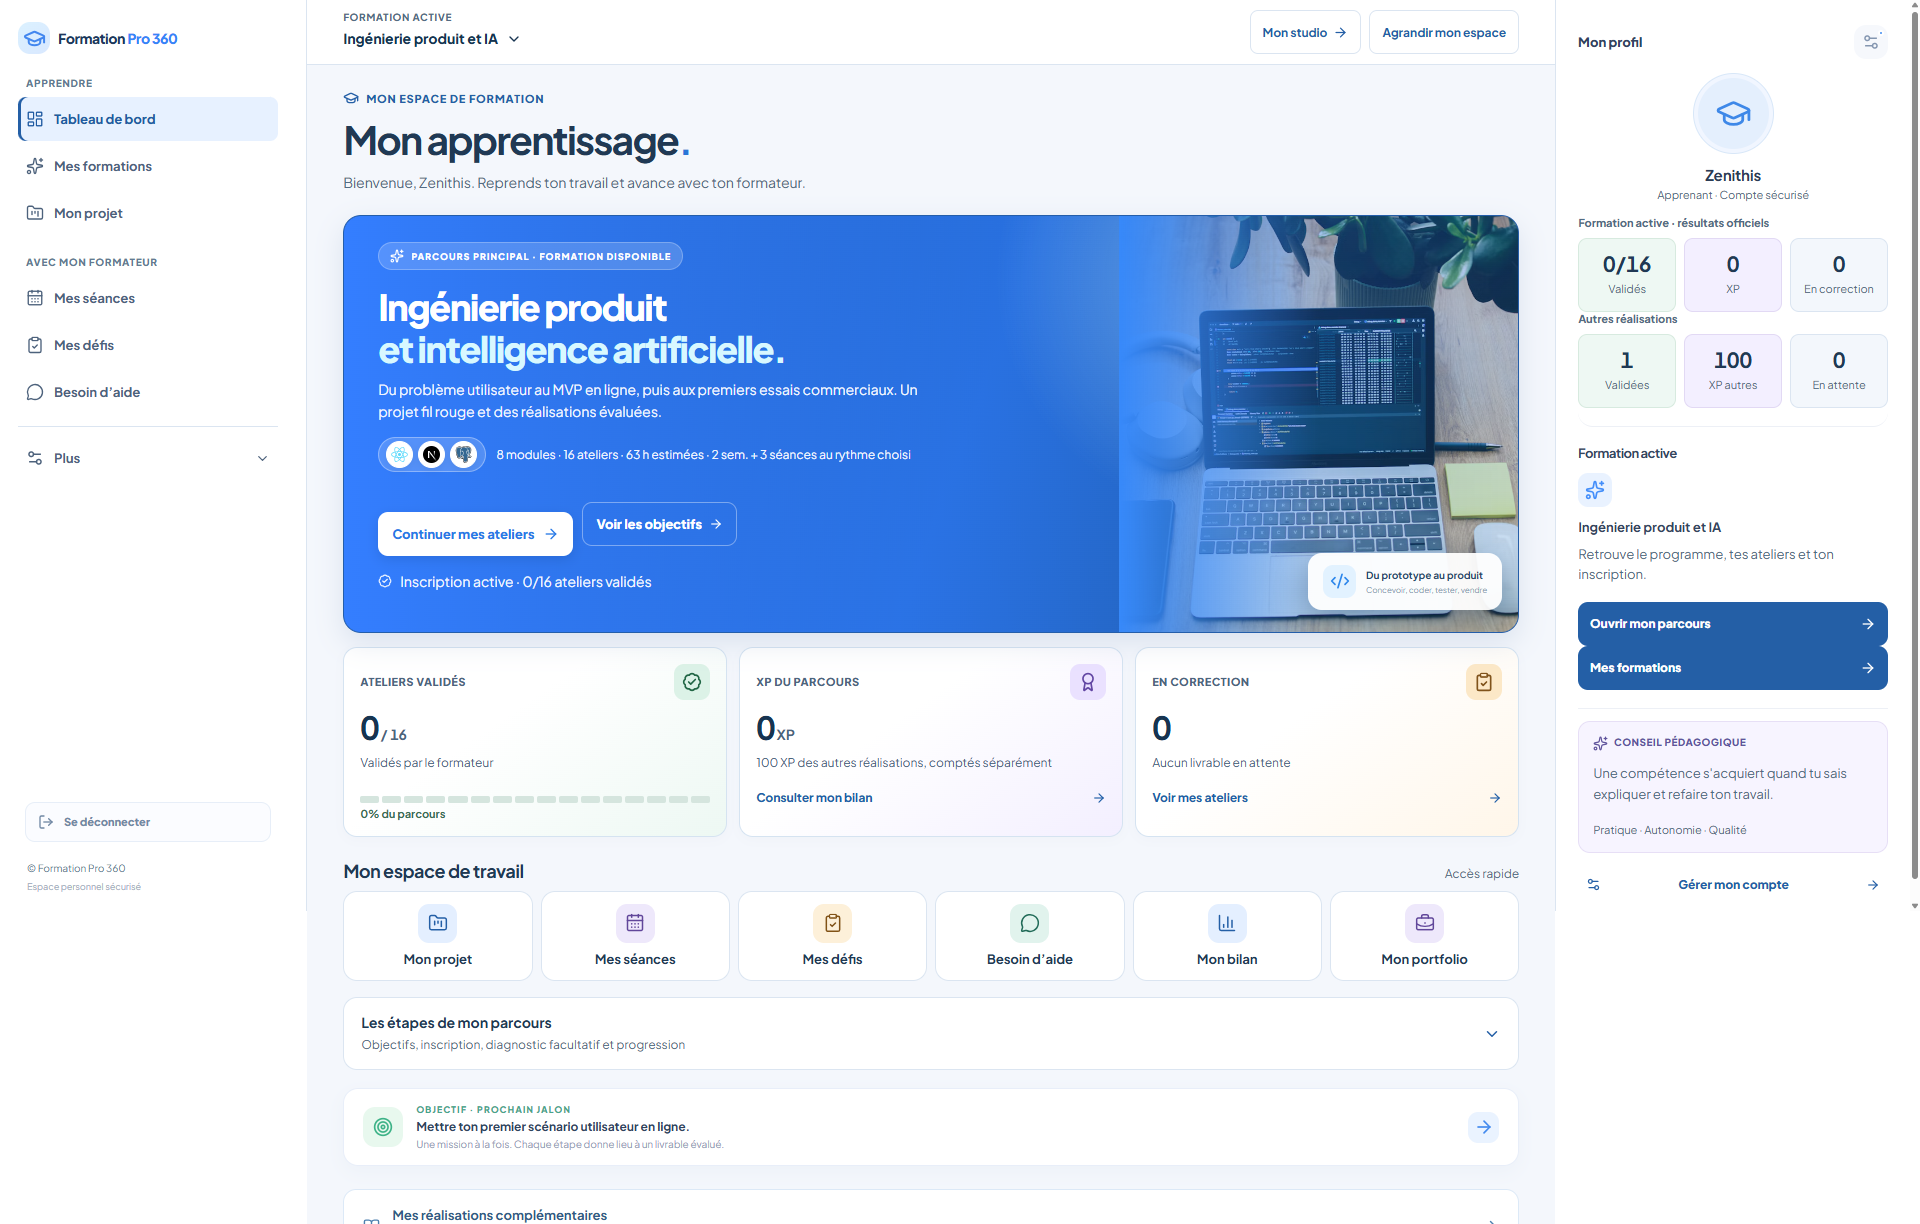
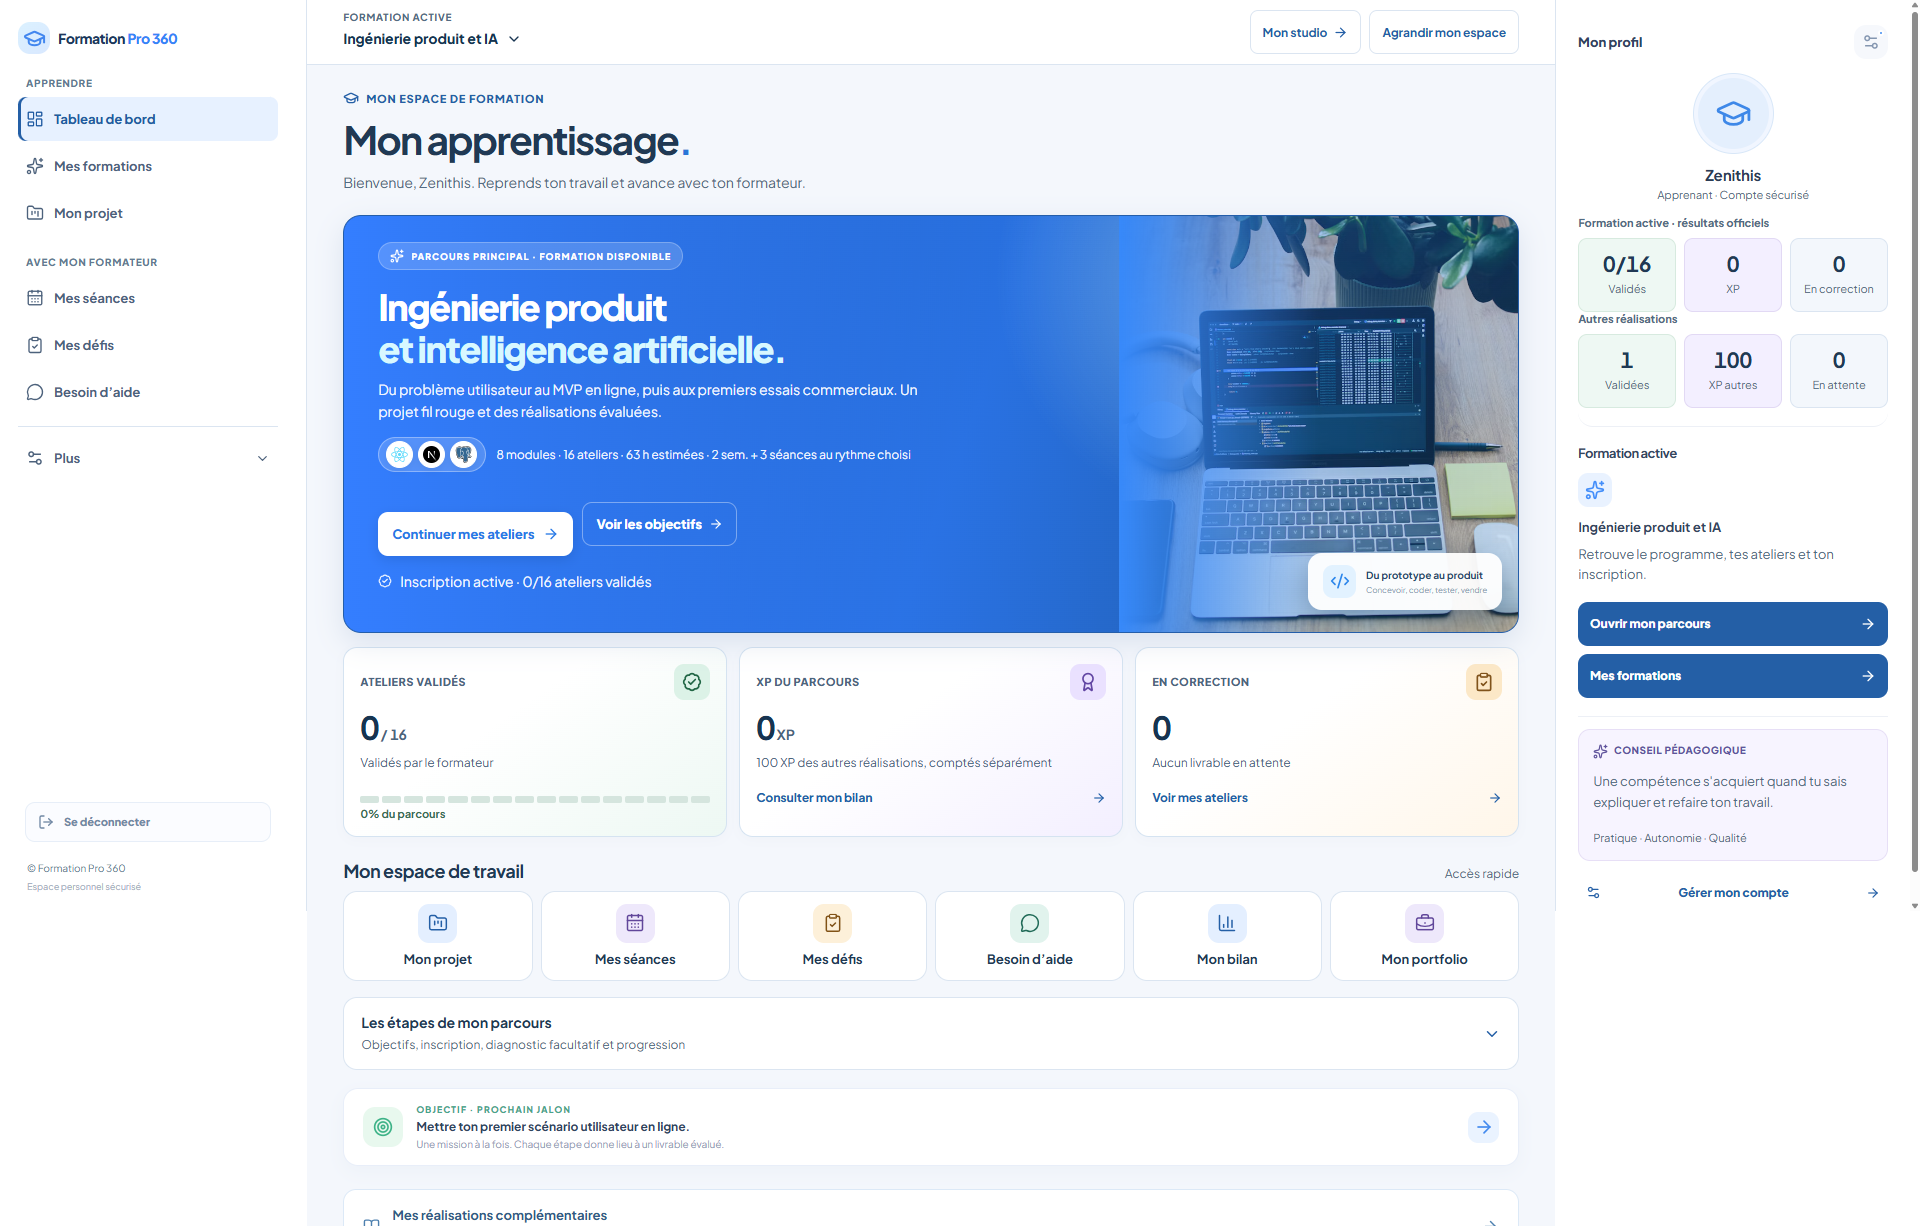
feat(landing): show training formats and updated preview

diff --git a/src/app/page.tsx b/src/app/page.tsx
@@ -140,7 +140,7 @@ function LandingPreview() {
         src="/images/landing-dashboard.png"
         alt="Tableau de bord apprenant Formation Pro 360, avec le parcours en cours et sa progression"
         width={1920}
-        height={1224}
+        height={1226}
         priority
       />
     </div>
@@ -183,7 +183,7 @@ export default async function HomePage() {
                   <a className="landing-button landing-button-primary" href="#formations">Explorer les formations <ArrowRight size={17} /></a>
                   <a className="landing-button landing-button-secondary" href="/login">J’ai déjà un compte</a>
                 </div>
-                <p className="landing-hero-note"><ShieldCheck size={15} /> Consulte les programmes librement. Les inscriptions ouvertes sont confirmées dans ton espace.</p>
+                <p className="landing-hero-note"><ShieldCheck size={15} /> Formations en présentiel à Douala (Makepe BM de préférence) ou à distance. Consulte les programmes librement.</p>
                 <div className="landing-hero-trust">
                   <span className="landing-trust-avatars" aria-hidden="true"><i><Target size={13} /></i><i><BookOpen size={13} /></i><i><BadgeCheck size={13} /></i></span>
                   <span><strong>Du concret à chaque étape</strong><small>Ateliers · réalisations · retours humains</small></span>
@@ -301,6 +301,7 @@ export default async function HomePage() {
               <Reveal className="landing-faq-intro"><h2 id="faq-title">Quelques réponses<br /><span>pour bien commencer.</span></h2><p>Découvre comment se déroule le parcours avant de créer ton espace.</p></Reveal>
               <div className="landing-faq-list">
                 <details className="landing-faq-item"><summary>Est-ce que je peux consulter les formations avant de m’inscrire ? <ChevronDown size={18} /></summary><p>Oui. Tu peux explorer les domaines et les projets présentés. Les possibilités d’inscription sont confirmées dans ton espace personnel.</p></details>
+                <details className="landing-faq-item"><summary>Où se déroulent les formations ? <ChevronDown size={18} /></summary><p>Les formations sont proposées en présentiel à Douala, de préférence à Makepe BM, ou à distance.</p></details>
                 <details className="landing-faq-item"><summary>Est-ce que le parcours impose un rythme fixe ? <ChevronDown size={18} /></summary><p>Tu peux définir tes disponibilités et avancer selon ton rythme. Les durées affichées sont des estimations, pas une échéance imposée.</p></details>
                 <details className="landing-faq-item"><summary>Comment mes réalisations sont-elles évaluées ? <ChevronDown size={18} /></summary><p>Tu déposes le travail demandé dans l’atelier. Ton formateur peut ensuite te transmettre une correction et des indications pour poursuivre.</p></details>
                 <details className="landing-faq-item"><summary>Quelle place est donnée à l’intelligence artificielle ? <ChevronDown size={18} /></summary><p>L’IA fait partie de plusieurs domaines de formation. Les ressources pédagogiques t’aident à l’utiliser pour produire, tester et vérifier ton travail avec discernement.</p></details>

diff --git a/src/app/landing.css b/src/app/landing.css
@@ -129,7 +129,7 @@
 
 .landing-hero-art { width: min(100%, 1200px); justify-self: center; }
 .landing-visual-wrap { position: relative; min-height: 0; perspective: 1500px; transform-style: preserve-3d; isolation: isolate; }
-.landing-dashboard-image { position: relative; z-index: 3; display: block; width: min(100%, 1187px); height: auto; margin: 18px auto 0; transform: translateY(0) rotateX(6deg) rotateY(-.6deg); transform-origin: center 38%; border: 1px solid #cad9ec; border-radius: 17px; box-shadow: 0 42px 82px #294d8033, 0 15px 32px #4777b326, 0 4px 12px #294d8017; animation: landing-dashboard-float 8s ease-in-out infinite; backface-visibility: hidden; }
+.landing-dashboard-image { position: relative; z-index: 3; display: block; width: min(100%, 1187px); height: auto; margin: 18px auto 0; transform: translateY(0) rotateX(6deg) rotateY(-.6deg); transform-origin: center 38%; border: 1px solid #cad9ec; border-radius: 17px 17px 0 0; box-shadow: 0 42px 82px #294d8033, 0 15px 32px #4777b326, 0 4px 12px #294d8017; animation: landing-dashboard-float 8s ease-in-out infinite; backface-visibility: hidden; }
 .landing-visual-aura { position: absolute; z-index: 0; top: 50%; left: 50%; width: 90%; height: 78%; transform: translate(-50%, -50%); border-radius: 50%; background: radial-gradient(ellipse, #83b6ff72 0%, #a8c7ff3b 43%, transparent 70%); filter: blur(28px); animation: landing-aura 9s ease-in-out infinite alternate; }
 .landing-cloudscape { position: absolute; z-index: 1; inset: -10% -20% -12%; overflow: hidden; pointer-events: none; transform: translateZ(-35px); }
 .landing-cloudscape::before, .landing-cloudscape::after { position: absolute; display: block; width: 70%; height: 55%; border-radius: 50%; content: ""; filter: blur(16px); opacity: .86; animation: landing-cloud-drift 13s ease-in-out infinite alternate; }
@@ -361,7 +361,7 @@
   .landing-hero-note { font-size: 8px; }
   .landing-hero-trust { margin-top: 20px; }
   .landing-visual-wrap { margin: 4px -8px 0; }
-  .landing-dashboard-image { width: 100%; margin-top: 8px; border-radius: 10px; }
+  .landing-dashboard-image { width: 100%; margin-top: 8px; border-radius: 10px 10px 0 0; }
   .landing-orbit-one { width: 420px; height: 245px; }
   .landing-orbit-two { width: 350px; height: 215px; }
   .landing-path-strip { grid-template-columns: repeat(2, 1fr); gap: 17px 12px; padding: 0 17px; }
